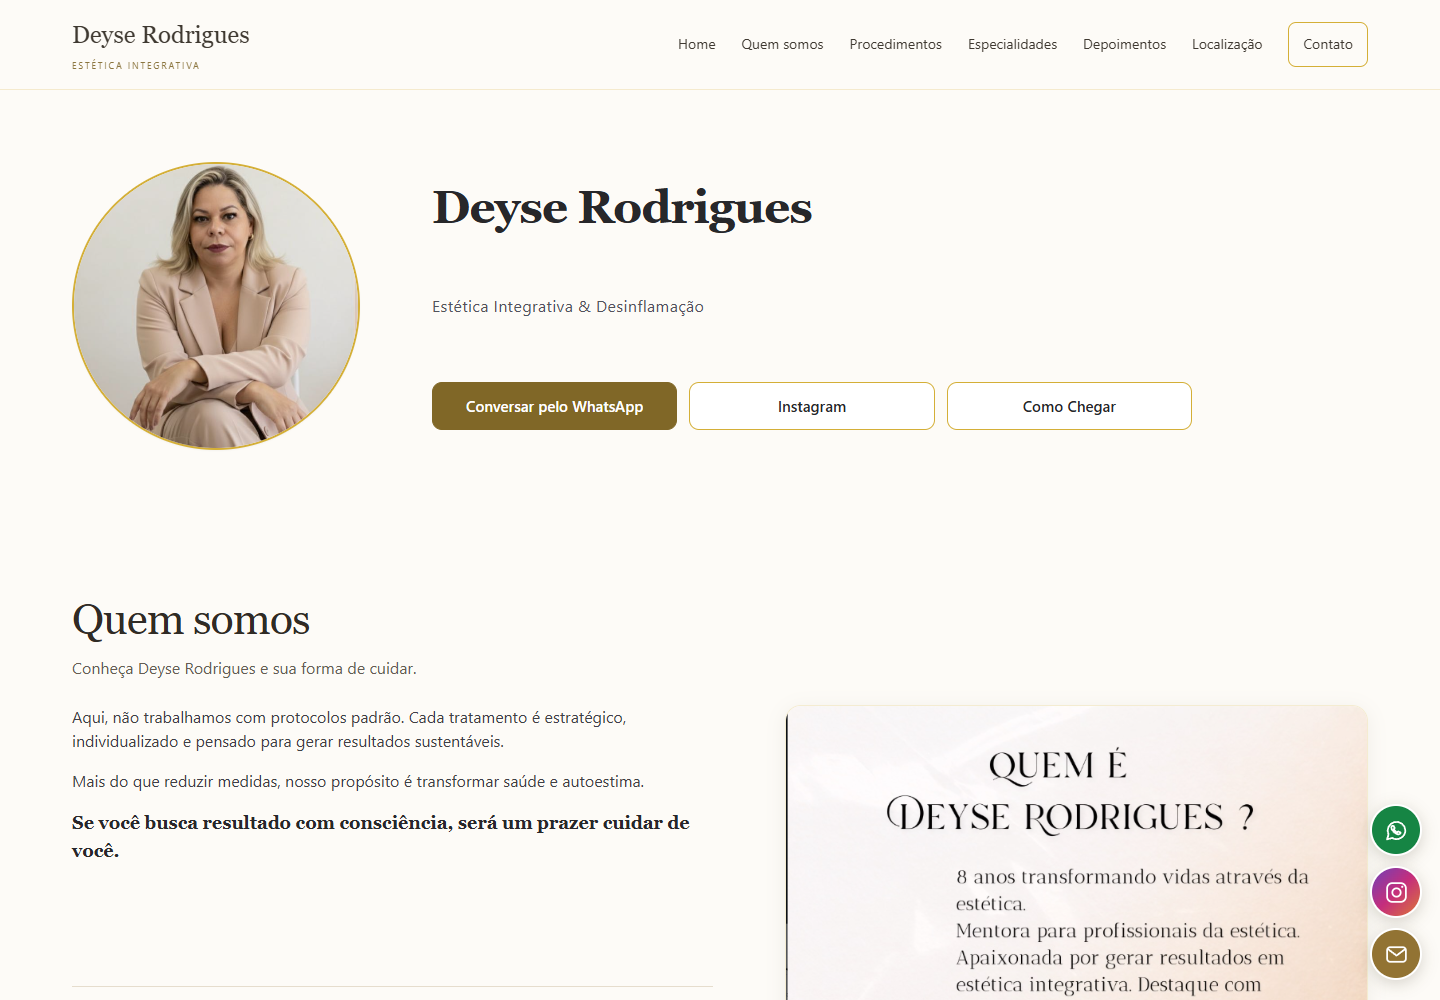
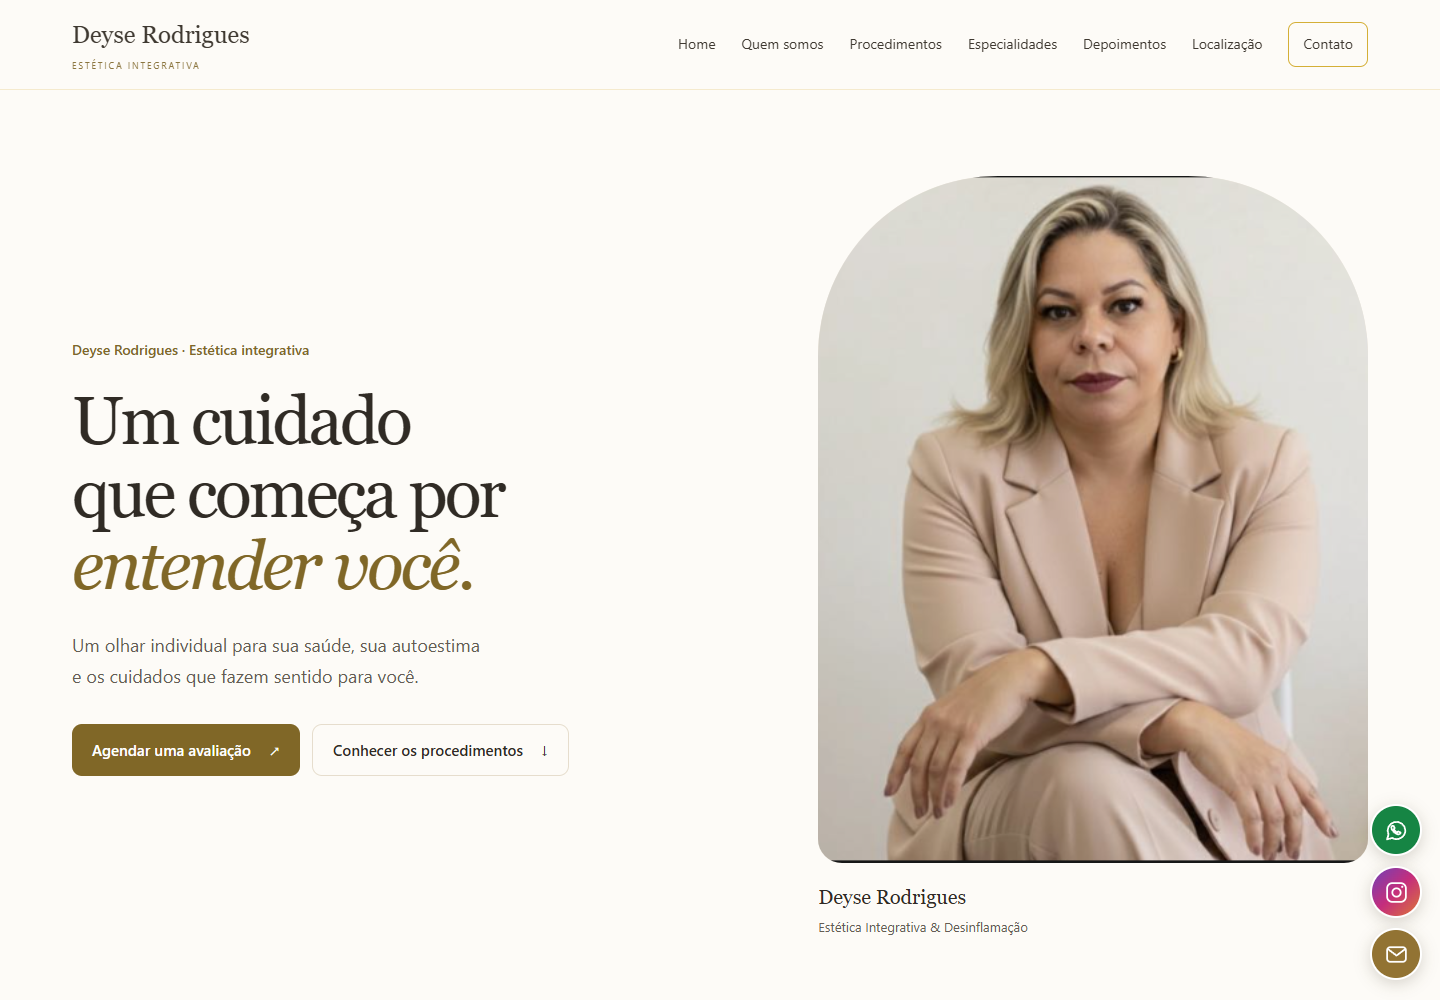
Fix Mvp

diff --git a/src/components/HeaderProfile.vue b/src/components/HeaderProfile.vue
@@ -1,72 +1,51 @@
 <script setup>
 import profileImage from '../assets/Perfil.png'
-import { contactLinks } from '../utils/contacts'
-
-const googleMapsUrl =
-  'https://www.google.com/maps/place/Av.+Dom+H%C3%A9lder+C%C3%A2mara,+5644+-+Sl+607+-+Cachambi,+Rio+de+Janeiro+-+RJ,+20771-004,+Brasil/@-22.8872359,-43.2883949,17z/data=!3m1!4b1!4m6!3m5!1s0x997c536323e13f:0x84494904c0f975a5!8m2!3d-22.8872409!4d-43.28582!16s%2Fg%2F11x5nvs3h9?hl=pt-BR'
-
-const quickLinks = [
-  { ...contactLinks[0], label: 'Conversar pelo WhatsApp', primary: true },
-  {
-    label: 'Instagram',
-    href: 'https://www.instagram.com/deyserodriguesestetica/',
-    external: true,
-  },
-  { label: 'Como Chegar', href: googleMapsUrl, external: true },
-]
+import { whatsappFor } from '../utils/contacts'
 </script>
 
 <template>
   <header class="profile-header section-shell">
-    <img
-      :src="profileImage"
-      alt="Deyse Rodrigues"
-      fetchpriority="high"
-      class="h-28 w-28 rounded-full border-2 border-goldDetail object-cover shadow-sm sm:h-32 sm:w-32"
-    />
-
-    <h1 class="mt-5 text-center font-serif text-3xl font-semibold tracking-tight text-zinc-800 sm:text-4xl">
-      Deyse Rodrigues
-    </h1>
-
-    <p class="mt-2 text-center text-sm tracking-wide text-zinc-600 sm:text-base">
-      Estética Integrativa &amp; Desinflamação
-    </p>
-
-    <nav aria-label="Links rápidos" class="mt-8 flex w-full flex-col gap-3">
-      <a
-        v-for="link in quickLinks"
-        :key="link.label"
-        :href="link.href"
-        :class="{ 'primary-contact': link.primary }"
-        :target="link.external ? '_blank' : undefined"
-        :rel="link.external ? 'noopener noreferrer' : undefined"
-        class="flex min-h-12 w-full items-center justify-center rounded-xl border border-goldDetail bg-white px-5 py-3 text-sm font-medium text-zinc-800 transition-colors hover:bg-nudeBase focus:outline-none focus:ring-2 focus:ring-goldDetail focus:ring-offset-2"
-      >
-        {{ link.label }}
-      </a>
-    </nav>
+    <div class="hero-copy">
+      <p class="hero-kicker">Deyse Rodrigues · Estética integrativa</p>
+      <h1>Um cuidado que começa por <em>entender você.</em></h1>
+      <p class="hero-description">Um olhar individual para sua saúde, sua autoestima e os cuidados que fazem sentido para você.</p>
+      <nav class="hero-actions" aria-label="Comece por aqui">
+        <a class="action-primary" :href="whatsappFor('Olá, Deyse! Gostaria de saber como agendar uma avaliação.')" target="_blank" rel="noopener noreferrer">Agendar uma avaliação <span aria-hidden="true">↗</span></a>
+        <a class="action-secondary" href="#procedimentos">Conhecer os procedimentos <span aria-hidden="true">↓</span></a>
+      </nav>
+    </div>
+    <figure class="hero-portrait">
+      <img :src="profileImage" alt="Deyse Rodrigues" fetchpriority="high" decoding="async" />
+      <figcaption><strong>Deyse Rodrigues</strong><span>Estética Integrativa &amp; Desinflamação</span></figcaption>
+    </figure>
   </header>
 </template>
 
 <style scoped>
-.profile-header { display: flex; flex-direction: column; align-items: center; gap: 8px; }
-.profile-header h1 { margin: 16px 0 0; font-size: clamp(30px, 3.2vw, 64px); line-height: 1.12; }
-.profile-header > p { max-width: 48ch; }
-.profile-header nav { max-width: 440px; }
-@media (min-width: 768px) {
-  .profile-header nav { flex-direction: row; max-width: 760px; }
-  .profile-header > img { width: 160px; height: 160px; }
+.profile-header { display: grid; grid-template-columns: minmax(0, 1.2fr) minmax(0, 1fr); align-items: center; gap: clamp(32px, 6vw, 112px); padding-top: clamp(40px, 6vw, 96px); padding-bottom: clamp(48px, 6vw, 100px); text-align: left; }
+.hero-copy { max-width: 780px; }
+.hero-kicker { color: var(--color-accent); font-size: .875rem; font-weight: 500; margin-bottom: 24px; }
+.hero-copy h1 { font-size: clamp(40px, 4.7vw, 76px); line-height: 1.07; font-weight: 400; margin: 0; letter-spacing: -.04em; }
+.hero-copy h1 em { color: var(--color-accent); font-weight: 400; }
+.hero-description { margin-top: 28px; max-width: 43ch; color: var(--color-muted); font-size: clamp(16px, 1.25vw, 20px); line-height: 1.7; }
+.hero-actions { display: flex; flex-wrap: wrap; gap: 12px; margin-top: 32px; }
+.hero-actions a { display: inline-flex; align-items: center; justify-content: center; gap: 18px; min-height: 52px; padding: 12px 20px; border-radius: var(--radius-control); font-size: .9375rem; font-weight: 500; text-decoration: none; }
+.action-primary { background: var(--color-accent); color: white; }
+.action-primary:hover { background: var(--color-accent-hover); }
+.action-secondary { color: var(--color-ink); border: 1px solid var(--color-border); }
+.action-secondary:hover { background: #f3eddf; }
+.hero-portrait { width: 100%; max-width: 580px; justify-self: end; margin: 0; }
+.hero-portrait img { display: block; width: 100%; aspect-ratio: 4 / 5; object-fit: cover; object-position: center 35%; border-radius: 180px 180px 24px 24px; background: #e9e2d7; }
+.hero-portrait figcaption { display: flex; flex-direction: column; gap: 4px; padding-top: 18px; }
+.hero-portrait strong { font-family: var(--font-display); font-size: 20px; font-weight: 400; }
+.hero-portrait figcaption span { font-size: .8125rem; color: var(--color-muted); }
+@media (max-width: 767px) {
+  .profile-header { grid-template-columns: 1fr; gap: 32px; }
+  .hero-kicker { font-size: .8125rem; margin-bottom: 18px; }
+  .hero-copy h1 { font-size: clamp(38px, 8vw, 56px); }
+  .hero-description { margin-top: 20px; }
+  .hero-actions { flex-direction: column; margin-top: 24px; }
+  .hero-portrait { max-width: 440px; justify-self: center; }
 }
-@media (min-width: 1024px) {
-  .profile-header { display: grid; grid-template-columns: clamp(180px, 20vw, 320px) minmax(0, 1fr); column-gap: clamp(32px, 5vw, 96px); text-align: left; }
-  .profile-header > img { grid-row: 1 / 4; width: 100%; height: auto; aspect-ratio: 1; }
-  .profile-header h1, .profile-header > p { text-align: left; margin: 0; }
-  .profile-header nav { margin-top: 20px; max-width: 760px; }
-}
-
-.profile-header nav a { border-radius: var(--radius-control); font-size: .9375rem; min-height: 48px; }
-.profile-header nav .primary-contact { background: var(--color-accent); color: #fff; border-color: var(--color-accent); }
-.profile-header nav .primary-contact:hover { background: var(--color-accent-hover); }
-@media (min-width: 1024px) { .profile-header { align-content: center; row-gap: 20px; } .profile-header nav { margin-top: 4px; } }
+@media (hover: hover) and (prefers-reduced-motion: no-preference) { .hero-actions a { transition: background-color 150ms ease; } }
 </style>

diff --git a/src/components/CareJourney.vue b/src/components/CareJourney.vue
@@ -1,0 +1,37 @@
+<script setup>
+import { whatsappFor } from '../utils/contacts'
+const steps = [
+  { title: 'Avaliação inicial', text: 'O primeiro encontro é para entender suas necessidades, ouvir seus objetivos e avaliar os cuidados indicados para você.' },
+  { title: 'Proposta personalizada', text: 'A partir da avaliação, Deyse apresenta uma proposta de cuidado individualizada e esclarece suas dúvidas.' },
+  { title: 'Acompanhamento', text: 'O cuidado continua com acompanhamento da sua evolução e orientações ao longo do atendimento.' },
+]
+</script>
+
+<template>
+  <section class="care-section section-shell" aria-labelledby="care-title">
+    <div class="care-intro">
+      <h2 id="care-title">Um cuidado pensado<br /><em>com você.</em></h2>
+      <p>Não precisa escolher um procedimento sozinha. Tire suas dúvidas antes de agendar.</p>
+      <a :href="whatsappFor('Olá, Deyse! Gostaria de conversar sobre uma avaliação e tirar algumas dúvidas.')" target="_blank" rel="noopener noreferrer">Conversar pelo WhatsApp <span aria-hidden="true">↗</span></a>
+    </div>
+    <ol class="care-steps">
+      <li v-for="(step, index) in steps" :key="step.title"><span class="step-number" aria-hidden="true">0{{ index + 1 }}</span><div><h3>{{ step.title }}</h3><p>{{ step.text }}</p></div></li>
+    </ol>
+  </section>
+</template>
+
+<style scoped>
+.care-section { display: grid; grid-template-columns: 1fr 1fr; gap: clamp(32px, 6vw, 96px); background: #f3eee5; text-align: left; }
+.care-intro h2 { font-size: clamp(30px, 3vw, 48px); }
+.care-intro h2 em { color: var(--color-accent); }
+.care-intro > p { max-width: 38ch; margin: 24px 0; color: var(--color-muted); }
+.care-intro a { display: inline-flex; align-items: center; gap: 16px; min-height: 48px; color: var(--color-accent); font-weight: 600; text-decoration: underline; text-underline-offset: 6px; }
+.care-steps { margin: 0; padding: 0; list-style: none; }
+.care-steps li { display: flex; gap: 24px; padding: 24px 0; border-bottom: 1px solid #ddd2bf; }
+.care-steps li:first-child { padding-top: 0; }
+.care-steps li:last-child { border: 0; padding-bottom: 0; }
+.step-number { color: var(--color-accent); font-family: var(--font-display); font-size: 24px; }
+.care-steps h3 { font-size: 18px; font-weight: 600; margin-bottom: 8px; }
+.care-steps p { color: var(--color-muted); }
+@media (max-width: 767px) { .care-section { grid-template-columns: 1fr; } .care-steps li { gap: 16px; } }
+</style>

diff --git a/src/components/AboutSection.vue b/src/components/AboutSection.vue
@@ -45,6 +45,12 @@ const presentationImages = [
 const carousel = ref(null)
 const activeSlide = ref(0)
 const slideTitles = ['Quem sou eu', 'Minha missão', 'Meus valores', 'Eu acredito']
+const slideDescriptions = [
+  'Deyse Rodrigues atua há mais de 8 anos com estética integrativa, desinflamação, reestruturação corporal e pós-operatório.',
+  'Cuidar da autoestima com um olhar individual, respeitando a saúde e as necessidades de cada pessoa.',
+  'Atendimento humanizado, escuta e cuidado com a saúde orientam a relação com cada pessoa.',
+  'Cada tratamento deve ser pensado de forma individual. O cuidado começa por entender você, sem promessas rápidas.',
+]
 let resizeObserver
 
 function goToSlide(index) {
@@ -133,6 +139,7 @@ onBeforeUnmount(() => resizeObserver?.disconnect())
           <svg viewBox="0 0 24 24" fill="none" stroke="currentColor" stroke-width="1.7" aria-hidden="true"><path d="m10 6 6 6-6 6" /></svg>
         </button>
       </div>
+      <div class="slide-reading"><h3>{{ slideTitles[activeSlide] }}</h3><p>{{ slideDescriptions[activeSlide] }}</p></div>
       <p class="carousel-caption" aria-live="polite" aria-atomic="true">{{ activeSlide + 1 }} / {{ presentationImages.length }} — {{ slideTitles[activeSlide] }}</p>
     </div>
   </section>
@@ -167,4 +174,8 @@ onBeforeUnmount(() => resizeObserver?.disconnect())
 .about-text-cards article { text-align: left; border: 0; border-top: 1px solid var(--color-border); border-radius: 0; box-shadow: none; background: transparent; padding: 24px 0; }
 @media (min-width: 1280px) { .about-heading { grid-column: 1 / -1; margin-bottom: 0; } }
 @media (max-width: 360px) { .carousel-controls { gap: 4px; } }
+
+.slide-reading { padding: 20px 0 12px; text-align: left; border-top: 1px solid var(--color-border); margin-top: 20px; }
+.slide-reading h3 { font-family: var(--font-display); font-size: 24px; margin-bottom: 8px; }
+.slide-reading p { color: var(--color-muted); font-size: 1rem; line-height: 1.7; }
 </style>

diff --git a/src/components/ServiceCarousel.vue b/src/components/ServiceCarousel.vue
@@ -1,5 +1,6 @@
 <script setup>
 import { computed, onBeforeUnmount, onMounted, ref } from 'vue'
+import { whatsappFor } from '../utils/contacts'
 
 const props = defineProps({ category: { type: Object, required: true } })
 const pages = computed(() => {
@@ -44,6 +45,7 @@ onBeforeUnmount(() => resizeObserver?.disconnect())
               <svg viewBox="0 0 24 24" fill="none" stroke="currentColor" stroke-width="1.7" aria-hidden="true"><path d="m6 9 6 6 6-6" /></svg>
             </summary>
             <p>{{ service.description }}</p>
+            <a class="service-interest" :href="whatsappFor(`Olá, Deyse! Tenho interesse em ${service.name}. Gostaria de saber mais sobre o procedimento e o agendamento.`)" target="_blank" rel="noopener noreferrer" :aria-label="`Tenho interesse em ${service.name}`">Tenho interesse <span aria-hidden="true">↗</span></a>
           </details>
         </article>
       </div>
@@ -89,5 +91,10 @@ onBeforeUnmount(() => resizeObserver?.disconnect())
 .service-details[open] summary svg { transform: rotate(180deg); }
 .service-details p { padding: 2px 0 8px; color: #655d54; font-size: 13px; line-height: 1.65; overflow-wrap: anywhere; }
 @media (max-width: 480px) { .service-details { margin-inline: 8px; } .service-details p { font-size: 14px; } }
+</style>
+
+<style scoped>
+.service-interest { display: flex; align-items: center; justify-content: space-between; gap: 6px; min-height: 44px; margin-top: 12px; padding: 10px 12px; border-radius: var(--radius-control); background: var(--color-accent); color: white; font-size: 14px; font-weight: 500; }
+.service-interest:hover { background: var(--color-accent-hover); }
 </style>
 

diff --git a/src/App.vue b/src/App.vue
@@ -7,6 +7,7 @@ import HeaderProfile from './components/HeaderProfile.vue'
 import ServiceList from './components/ServiceList.vue'
 import SiteNavbar from './components/SiteNavbar.vue'
 import ContactLinks from './components/ContactLinks.vue'
+import CareJourney from './components/CareJourney.vue'
 
 const pageContent = ref(null)
 let entranceAnimation
@@ -47,6 +48,8 @@ onBeforeUnmount(() => {
       <div data-animate class="flex w-full justify-center">
         <ServiceList id="procedimentos" />
       </div>
+
+      <CareJourney />
 
       <div data-animate class="flex w-full justify-center">
         <div class="section-shell">

diff --git a/src/utils/contacts.js b/src/utils/contacts.js
@@ -3,3 +3,7 @@ export const contactLinks = [
   { id: 'instagram', label: 'Instagram', detail: '@deyserodriguesestetica', href: 'https://www.instagram.com/deyserodriguesestetica/', external: true },
   { id: 'email', label: 'E-mail', detail: 'deyserodriguesestetica@gmail.com', href: 'mailto:deyserodriguesestetica@gmail.com', external: false },
 ]
+
+export function whatsappFor(message) {
+  return contactLinks[0].href + '?text=' + encodeURIComponent(message)
+}

diff --git a/docs/DESIGN.md b/docs/DESIGN.md
@@ -34,3 +34,11 @@ Os arquivos consultados estão em docs/design-references. São referências de p
 - Detalhes de procedimentos com fonte maior no celular.
 - Animação de entrada respeita movimento reduzido e usa duração de 350ms.
 - Link para pular navegação e metadados em português.
+
+## Evolução da apresentação
+- Abertura com fotografia existente em destaque, mensagem sobre cuidado individual e ação para solicitar avaliação pelo WhatsApp.
+- Confirmado pelo usuário: avaliação inicial, proposta personalizada de cuidado e acompanhamento.
+- Cada procedimento possui link de interesse com mensagem específica, sem envio automático.
+- Carrossel de apresentação mantém as quatro imagens e inclui resumo em texto legível do card selecionado.
+- Pendências de conteúdo: depoimentos reais autorizados e fotos reais do espaço. Não publicar conteúdo inventado para preencher essas seções.
+- Verificação: compilação e navegação em 320, 390, 768, 1024, 1440 e 2560 px; links dos seis procedimentos conferidos, detalhes e menu testados, imagens de desktop e celular revisadas.
